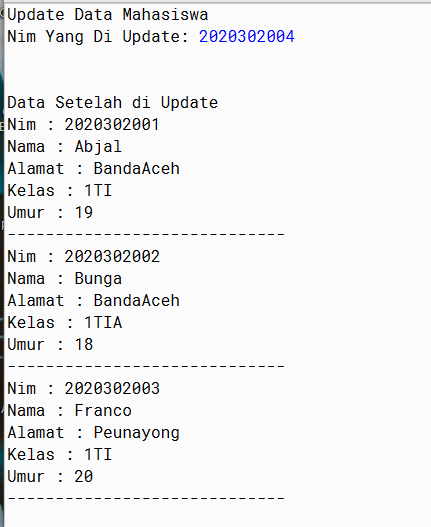
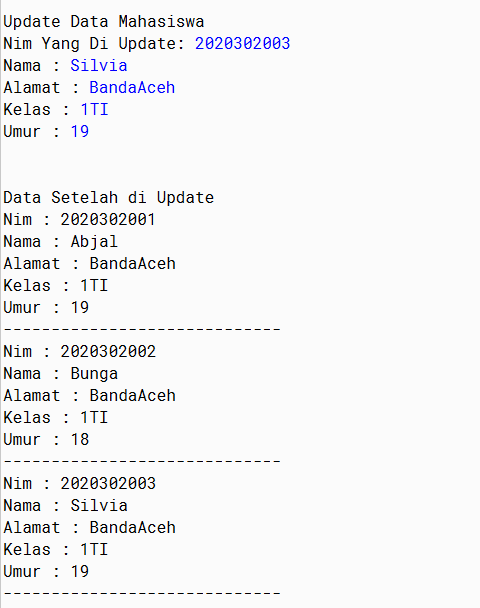
Arraylist

Changed region(s): [[0.0, 0.0, 1.0, 1.0]]

diff --git a/Main.java b/Main.java
@@ -10,7 +10,7 @@ import java.util.List;
  */
 public class Main
 {
-    public static void main(String args[]){
+   public static void main(String args[]){
         
         //ArrayList<Integer> arri = new ArrayList<Integer>();
         //ArrayList<String> arrs = new ArrayList<String>();
@@ -77,7 +77,7 @@ public class Main
                 System.out.println("Umur : "+mhs.getumurMhs());
             }
         }
-    
+      
         //Mengupdate data Mahasiswa
         System.out.println("\nUpdate Data Mahasiswa");
         System.out.print("Nim Yang Di Update: ");
@@ -88,29 +88,25 @@ public class Main
             {
                 System.out.print("Nama : ");
                 nama = input.next();
-                
+                mhs.setnamaMhs(nama);
                 
                 
                 System.out.print("Alamat : ");
                 alamat = input.next();
-               
+                mhs.setalamatMhs(alamat);
                 
                 System.out.print("Kelas : ");
                 kelas = input.next();
-               
+                mhs.setkelasMhs(kelas);
                 
                 System.out.print("Umur : ");
                 umur = input.nextInt();
-                
-                arrm.add(new Mahasiswa(nim,umur,nama,alamat,kelas));
-                System.out.println("\n");
-            
-               
+                mhs.setumurMhs(umur);
             }
             
         }
         
-        //Menampilkan Hasil Update
+        //Menampilkan Hasil Setelah DiUpdate
         System.out.println("\n");
         System.out.println("Data Setelah di Update");
         for (Mahasiswa mhs : arrm)
@@ -125,7 +121,7 @@ public class Main
         
         //Menghapus data Mahasiswa
         System.out.println("\nMenghapus Data Mahasiswa");
-        System.out.print("NIM Yang Ingin DiHapus: ");
+        System.out.print("Masukkan NIM yang ingin Dihapus: ");
         cariNim = input.nextInt();
         for (Mahasiswa mhs : arrm)
         {
@@ -135,7 +131,7 @@ public class Main
             }
         }
         
-        //Menampilkan Hasil Update
+        //Menampilkan Hasil Setelah Di Hapus
         System.out.println("\n");
         System.out.println("Data Setelah di Dihapus");
         for (Mahasiswa mhs : arrm)
@@ -148,8 +144,20 @@ public class Main
             System.out.println("-----------------------------");
         }
         
+        
+        
+       
+                
+              
+        
+
+        
        
     }
-    
-}
-   
+                    
+            
+
+               
+      
+
+    } 

diff --git a/Mahasiswa.java b/Mahasiswa.java
@@ -7,12 +7,10 @@
  */
 public class Mahasiswa
 {
-      // instance variables - replace the example below with your own
-    private int nim;
-    private int umur;
-    private String nama; 
-    private String alamat;
-    private String kelas;
+   // instance variables - replace the example below with your own
+    private int nim, umur;
+    private String nama, alamat, kelas;
+    
     
     /**
      * Constructor for objects of class Mahasiswa
@@ -25,6 +23,9 @@ public class Mahasiswa
         this.alamat = alamat;
         this.kelas = kelas;
     }
+    
+     public boolean allowDuplicates;
+  //  public ArrayListCustom<E>;
 
     /**
      * An example of a method - replace this comment with your own
@@ -60,7 +61,8 @@ public class Mahasiswa
     public void setnamaMhs(String nama){
         this.nama = nama;
     }
-      public void setalamatMhs(String alamat){
+    
+    public void setalamatMhs(String alamat){
         this.alamat = alamat;
     }
     
@@ -75,6 +77,10 @@ public class Mahasiswa
     public void setumurMhs(int umur){
         this.umur = umur;
     }
+
+   
+    
+  
    
     
   
